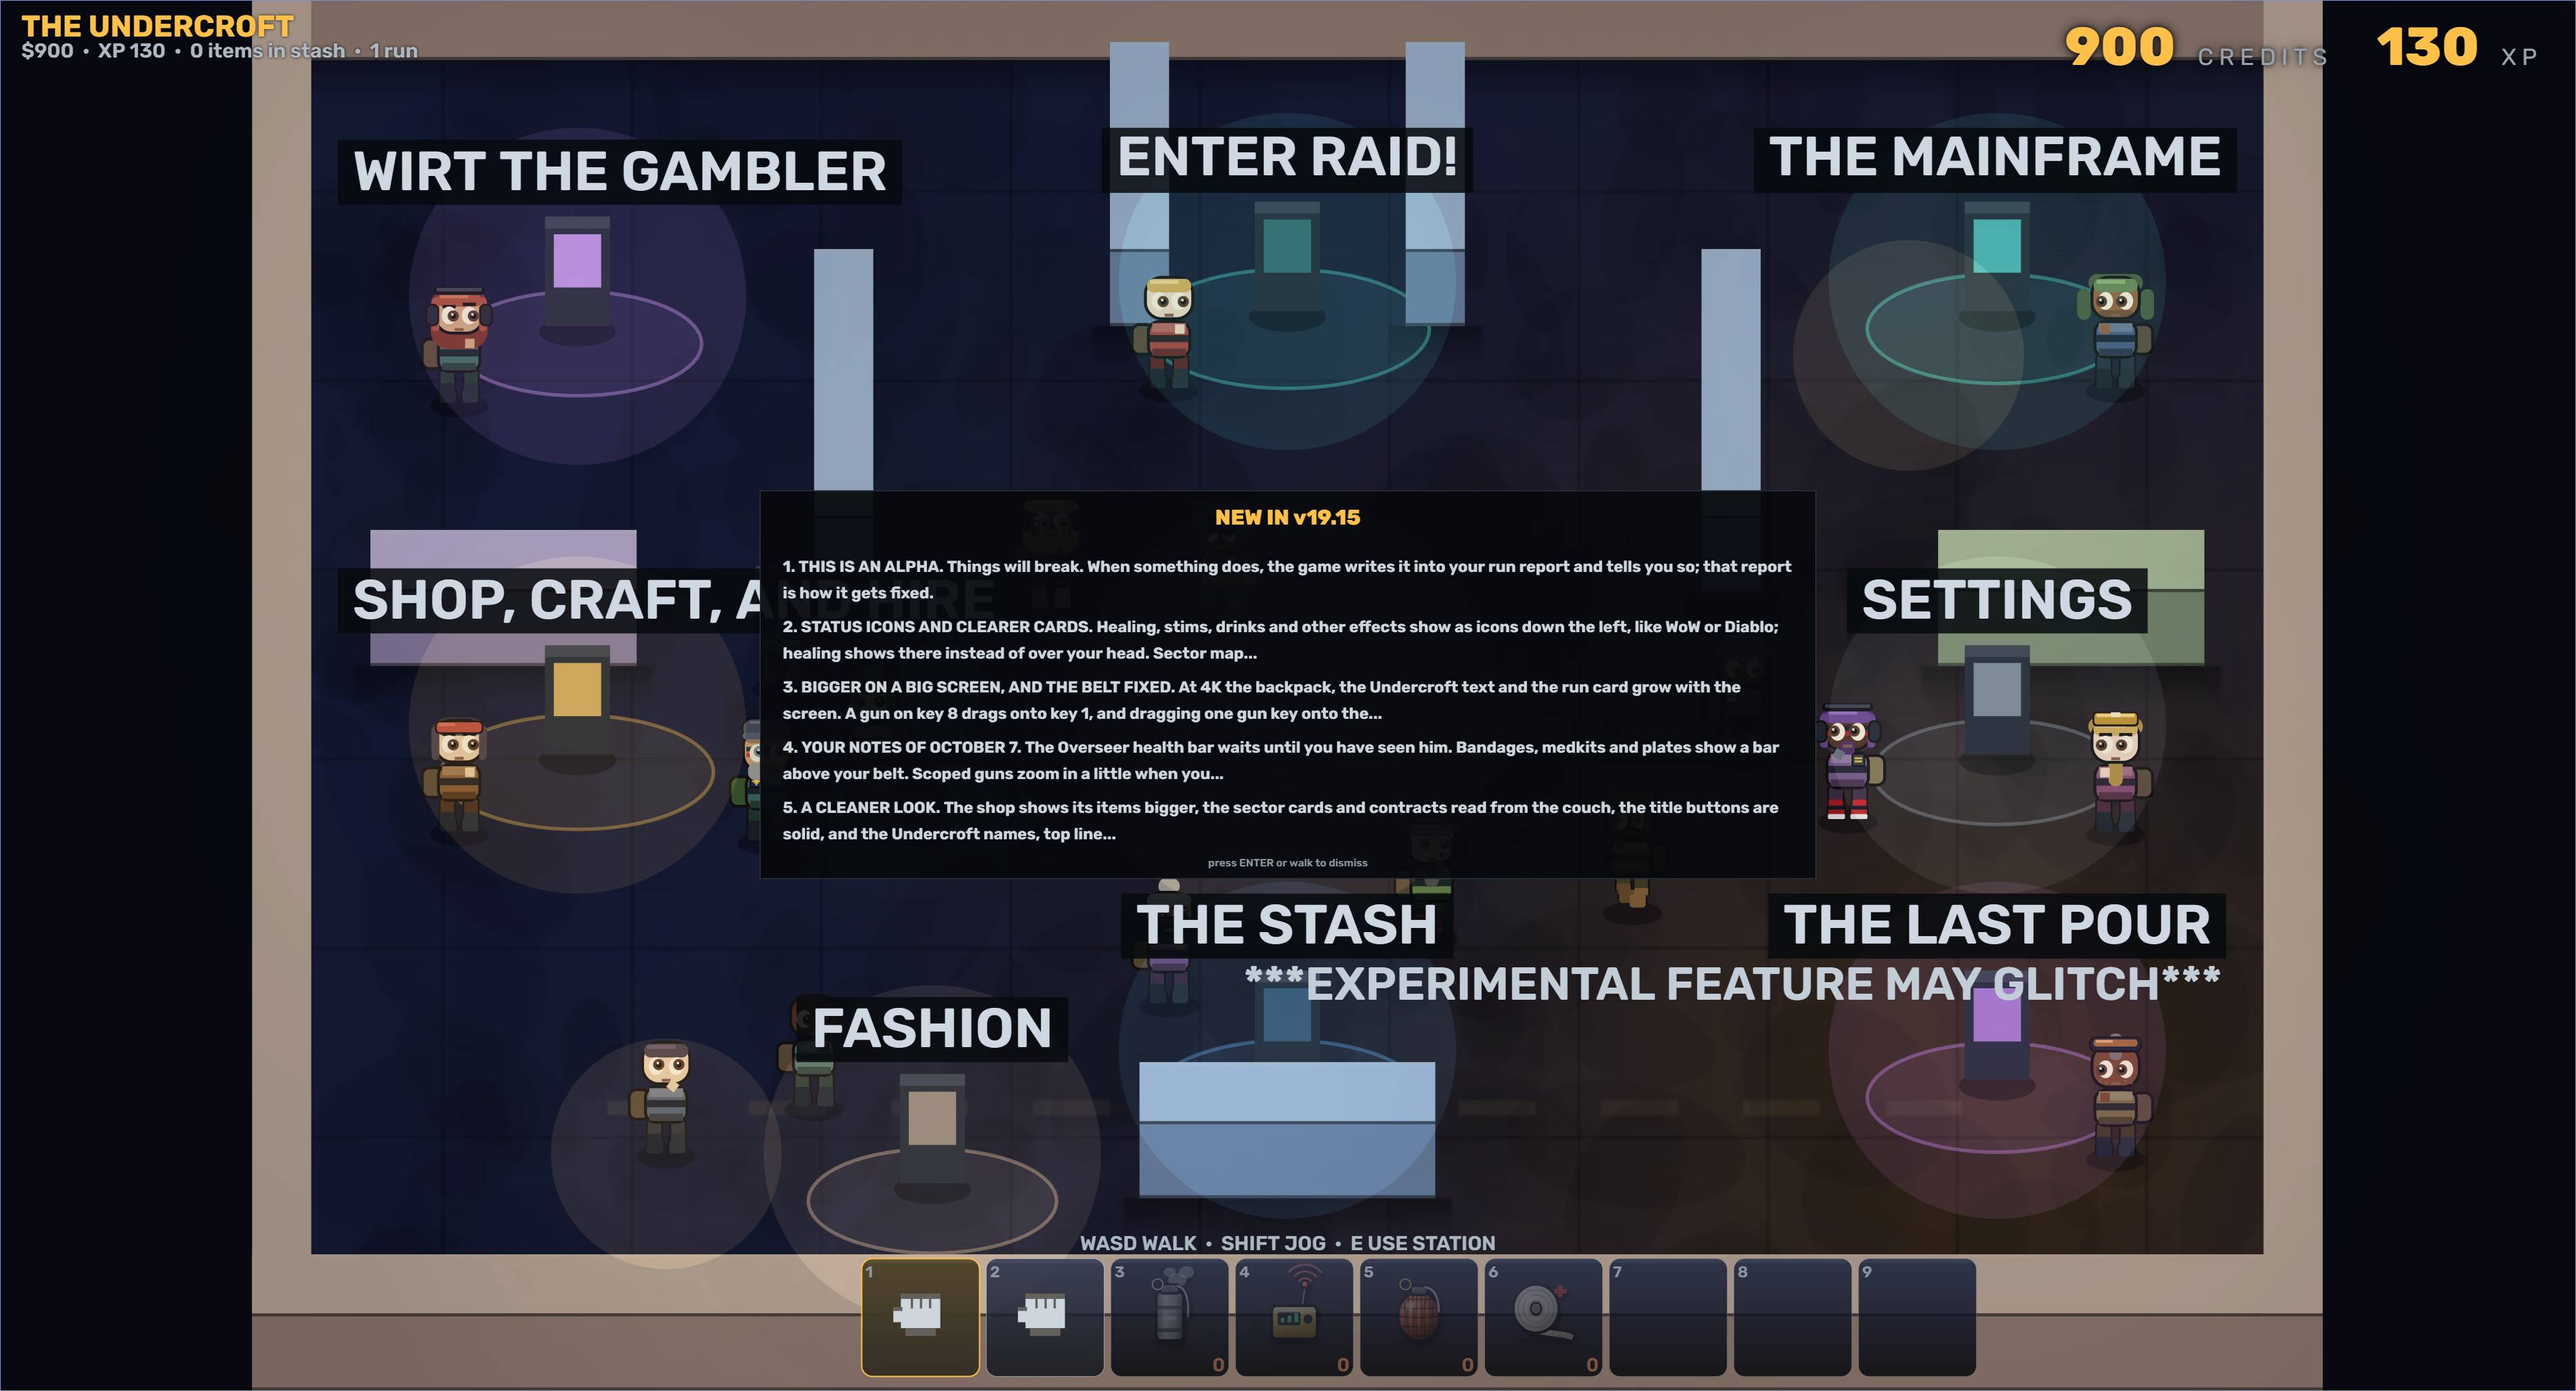
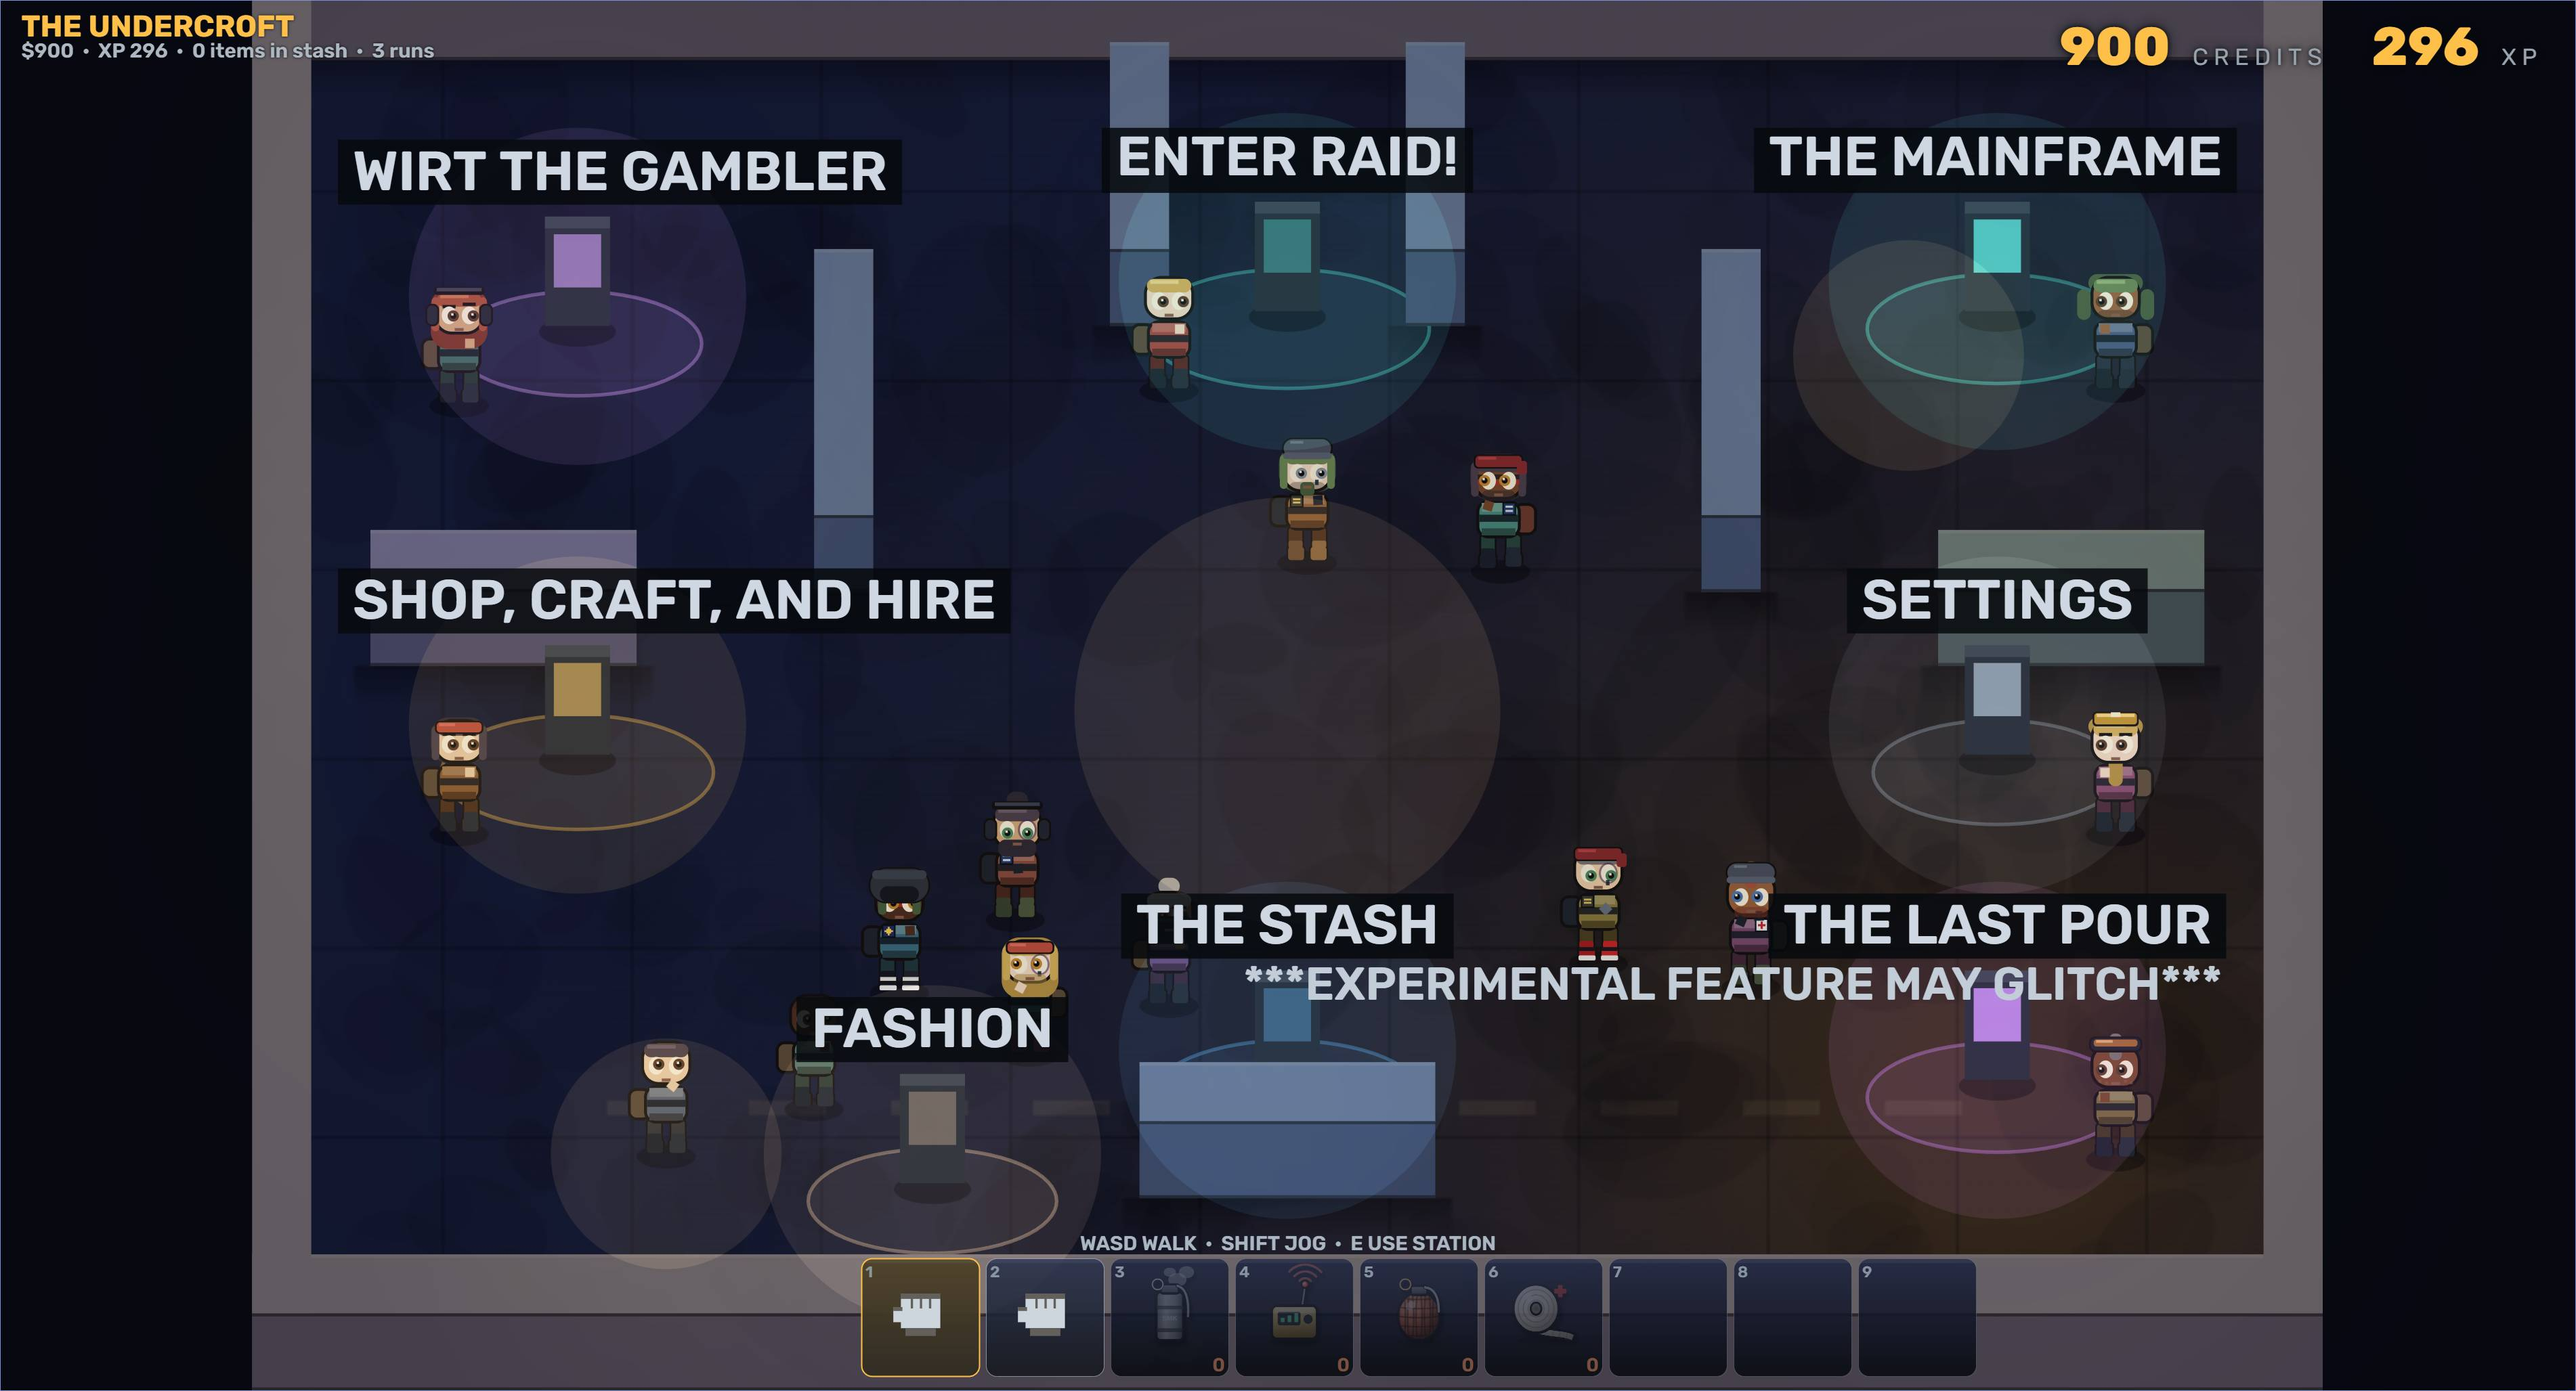
PC-HANDOFF: v19.23 to v19.35; 4K shots

diff --git a/tools/handoff/PC-HANDOFF.md b/tools/handoff/PC-HANDOFF.md
@@ -471,3 +471,17 @@ NOT DONE from the audit (judged later or design): pass ammo / second gun / belt-
 - Cards: v19.15 (stamp 19.15, next refresh by about 19.30).
 - 4K screenshots (shots4k): v19.21 the what is new card is drawn scaled with hudRes; v19.22 hiding chip and extraction ring labels use hudFS (FS times hudRes). Not done: the belt caption (beltFS 0.12) is still small at 4K; raising it collides with the extraction rows above the belt.
 - Corpus night run (corpus-slices.sh): its stall detector counts a busy tab as stuck, so slice 0 was marked STALLED at index 0 while it was running; check 0 passes by hand.
+- v19.23 shopstats: shop cream panel lists numbers for consumables (itemStatsHTML: heal amount, over, up to 85/100, put-on time; plate armour; stim; frag blast).
+- v19.24 lotbig: gambler offer item at 72 px on a dark tile (was 34). His v9.94 inner "Limited Time Offer" line kept; the section header duplicates it, left alone.
+- v19.25 liftprint: lift kit box 15 px (was 11), day and weather hints 14.
+- v19.26 secblank: a sector line he blanked (TXSHIP " ") takes no room unless Edit the words is on.
+- v19.27 baricons: bar rows lead with the drink's status icon (barIconURL paints statusGlyph by swapping ctx).
+- v19.28 wnbag: the what is new card waits while the floor backpack is open.
+- v19.29 mapgap: HOT GROUND and SURVEYED second lines a font line height apart (were 12/14 px at any size).
+- v19.30 card-1930 (stamp 19.30, next by ~19.45).
+- v19.31 mapbound: mapPlaceLabels keeps a moved label on screen and below the SECTOR MAP line (RECEIVING APRON went off the top).
+- v19.32/v19.33 mapwx, mapwxgap: the map time and weather line ends left of #topright with a 1.6 x font gap.
+- v19.34 beltcap: belt hint on a dark strip, #b4bfca.
+- v19.35 hubwalls: Undercroft walls blended about half way toward navy (hubWallHex); a look change, flagged in the note so he can ask for them back.
+- Fixture retargets (commit f452ead9): 17.95 reads drawMapOverlayRaw, 17.82 accepts fs=11 start, 15.91 host-leaving arms follow his 10-02 pick-up ruling (netHostGone NET.upSeed=0).
+- Night shots: setting P.cond='night' before __deploy still gave a day raid in the fixture (8am); not chased.
